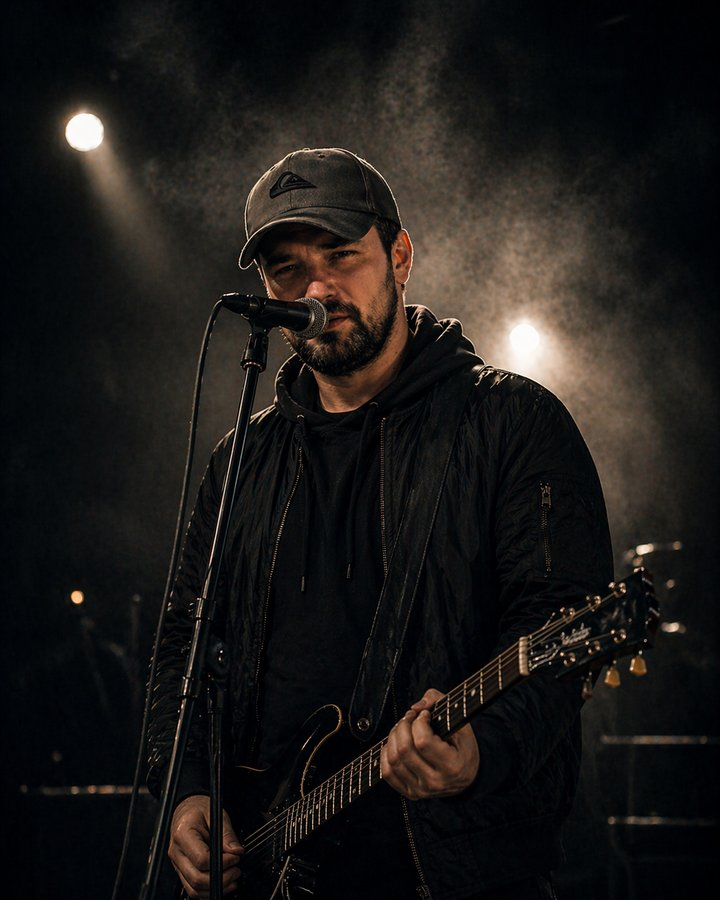
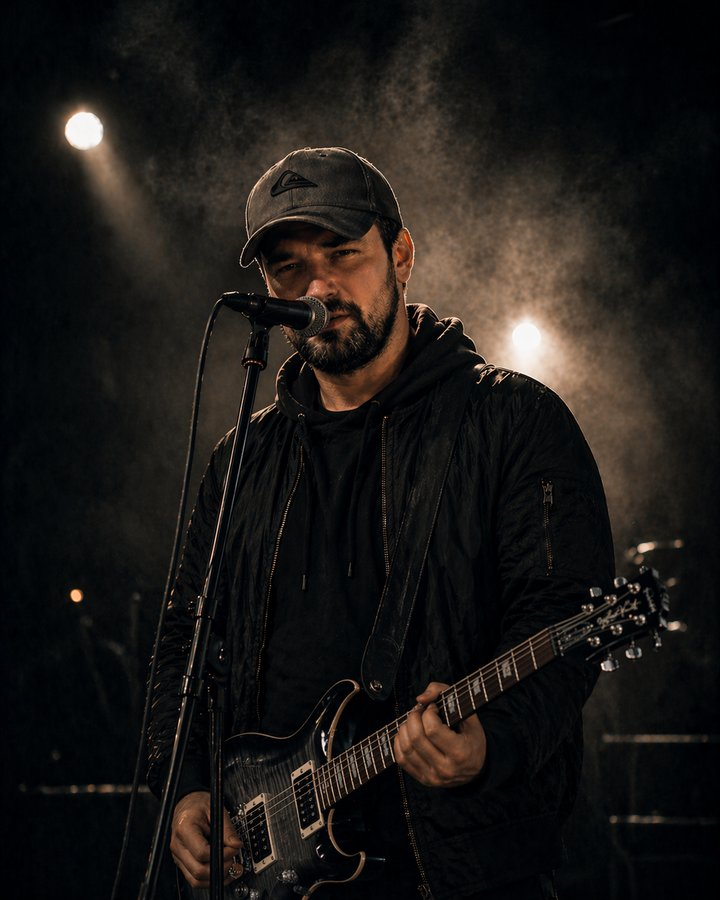
Replace Janusz photo with better framing (remove extra zoom)

diff --git a/index.html b/index.html
@@ -150,7 +150,7 @@
         </div>
       </article>
 
-      <article class="member member--photo member--zoom">
+      <article class="member member--photo">
         <div class="member__portrait">
           <img src="/assets/img/member-janusz.jpg" alt="Janusz — wokal, gitara" loading="lazy" />
         </div>
